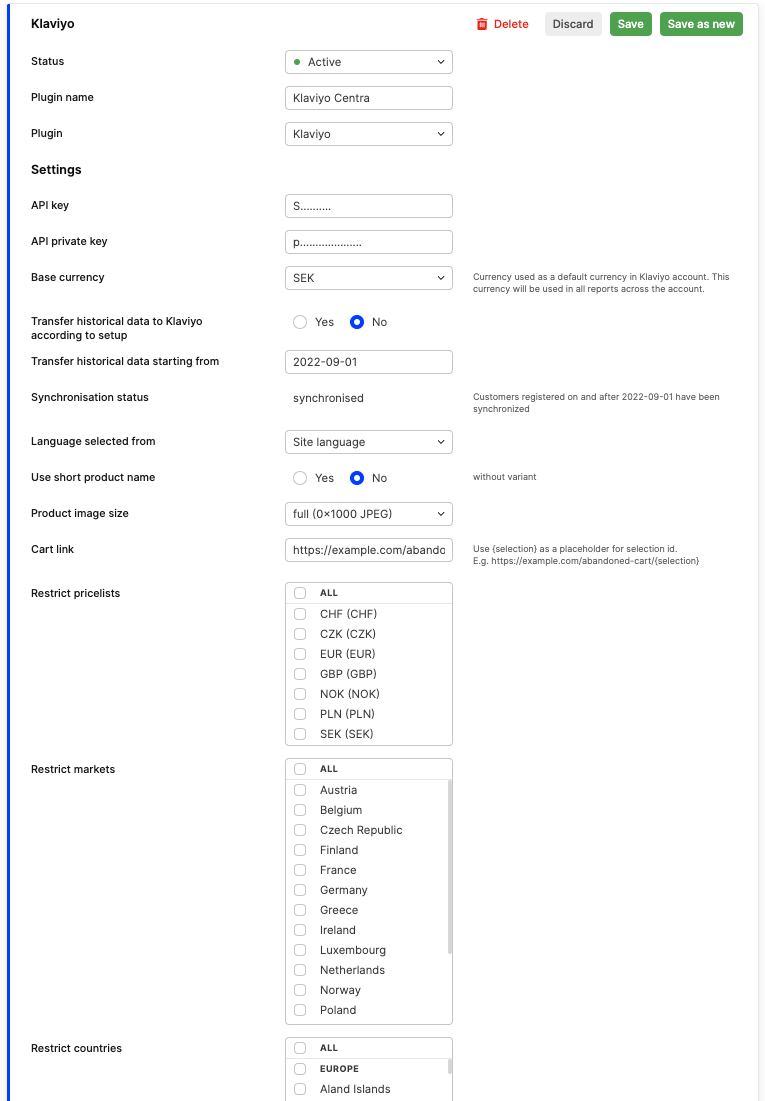
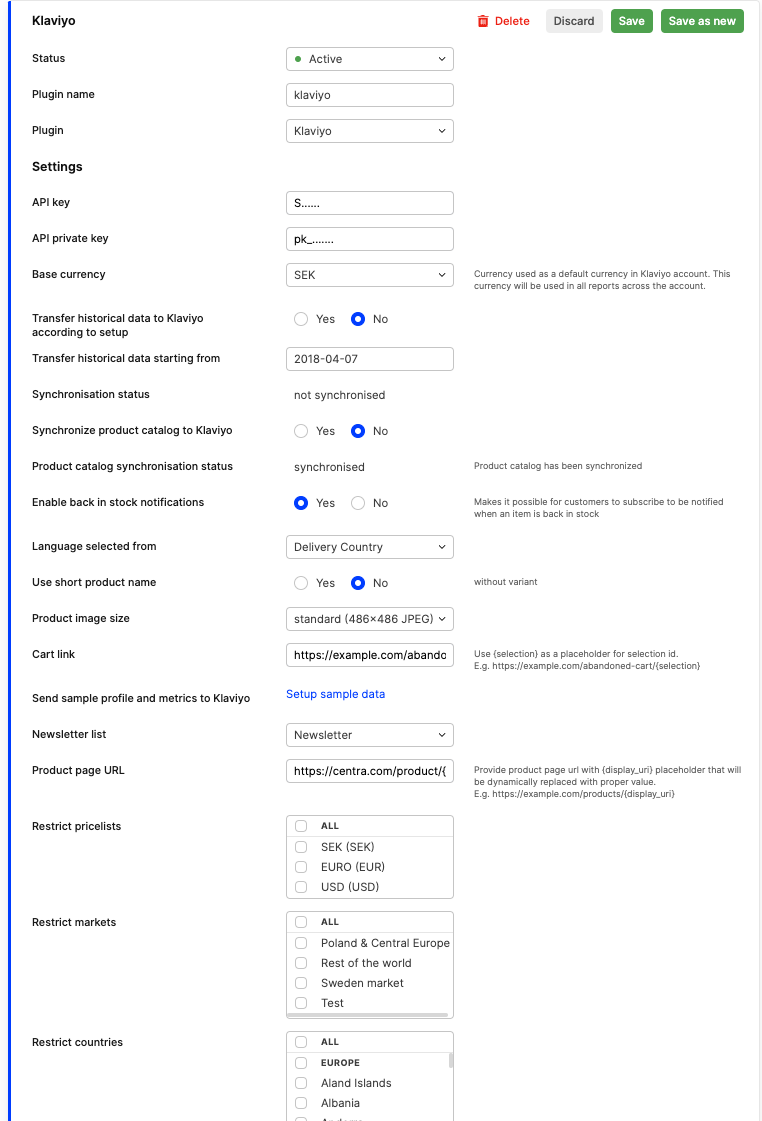
Klaviyo: Add info about newsletter setting

diff --git a/pages/06.plugins/15.klaviyo/docs.md b/pages/06.plugins/15.klaviyo/docs.md
@@ -45,6 +45,11 @@ Image size you want to send over to Klaviyo for all the products. Select a prope
 ### Cart link
 Cart link: should be set to the URL your webshop uses for cart abandonment, e.g. https://example.com/abandoned-cart/{selection}
 
+### Newsletter
+
+Newsletter lists to which customers will be opt-in. Also, our integration will check this list in context of customer opt-out. In case of opt-out newsletter setting on customer profile in Centra will be updated. 
+You can create/find existing lists in Klaviyo Dashboard, under Audience -> Lists & Segments, type: Lists.
+
 ### Product page URL
 
 If you want to use URLs to the products, you can either provide the URL to the product when the product is added to the selection in the APIs ([CheckoutAPI](https://docs.centra.com/swagger-ui/?api=CheckoutAPI&urls.primaryName=CheckoutAPI#/2.%20selection%20handling%2C%20cart/post_items__item_), [ShopAPI](https://docs.centra.com/swagger-ui/?api=ShopAPI&urls.primaryName=ShopAPI#/default/post_selections__selection__items__item_)), or you can define a `Product page URL` which will be combined with the display URI of the product from Centra. 
